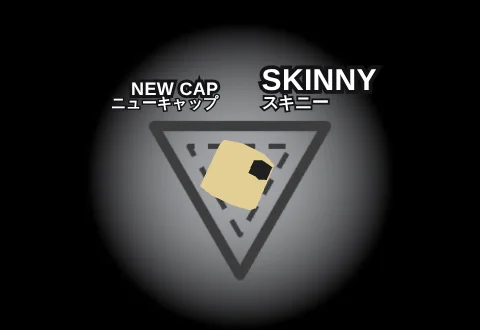
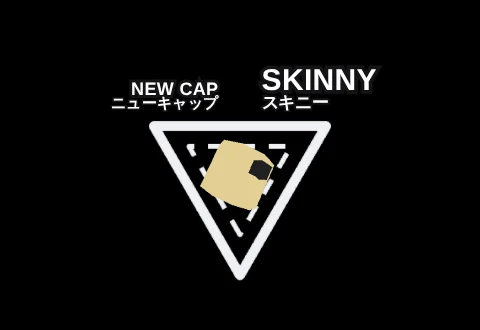
site: the caps' pickups with no glow and a light ring (TASK-387)
Claude-Session: https://claude.ai/code/session_016s8qrhkeuc1yBzTk7V5NH9

diff --git a/docs/site.md b/docs/site.md
@@ -29,7 +29,7 @@ what's served: `docs/deploy.md`; the release steps that touch the page: `docs/re
 - Order: the hero, the fact cards, How to start playing (where it shows), About (the owner's text on what the game is,
   the owner's word to players under P.S.; its "legal walls" is the owner's own, saying the game isn't one), then the
   rest. Painting has what the can does, then Caps and Tools under their own titles: every cap with its picture
-  (`public/about/caps/*.webp`: its pickup with its ring and tag, by `npm run cap-pictures`, when a cap or the pickups' look changes), every
+  (`public/about/caps/*.webp`: its pickup with its tag and a light ring, no glow, by `npm run cap-pictures`, when a cap or the pickups' look changes), every
   tool with the server list's icon (`src/net/tool-icons.ts`), copied as markup. `scripts/seo.test.mjs` checks both.
 - The hero's loop (`public/about/roof.mp4`, `roof-portrait.mp4`) starts after the page and its fonts have loaded
   (`src/boot.ts`), so it never competes with them. Filmed from the title view on a real GPU, 1920x1080 and 1080x1920 (the

diff --git a/docs/backlog.md b/docs/backlog.md
@@ -209,7 +209,7 @@ Shipped since the last release; the release commit empties this list.
 42. IDEA [BL-066]: A camera mode for trailers and cinematics
 43. [TASK-384]: The page about the game: Multiplayer is Solo & Multiplayer with all three modes
 44. [TASK-385]: The page about the game: Painting says what 1.7.0 does, with How to play in it as Tools and a new Caps part, each cap with its picture
-45. [TASK-387]: The page about the game: each cap's picture is its pickup, with its ring and tag as in the game
+45. [TASK-387]: The page about the game: each cap's picture is its pickup, with a light ring and its tag, no glow
 
 ## Discarder
 
